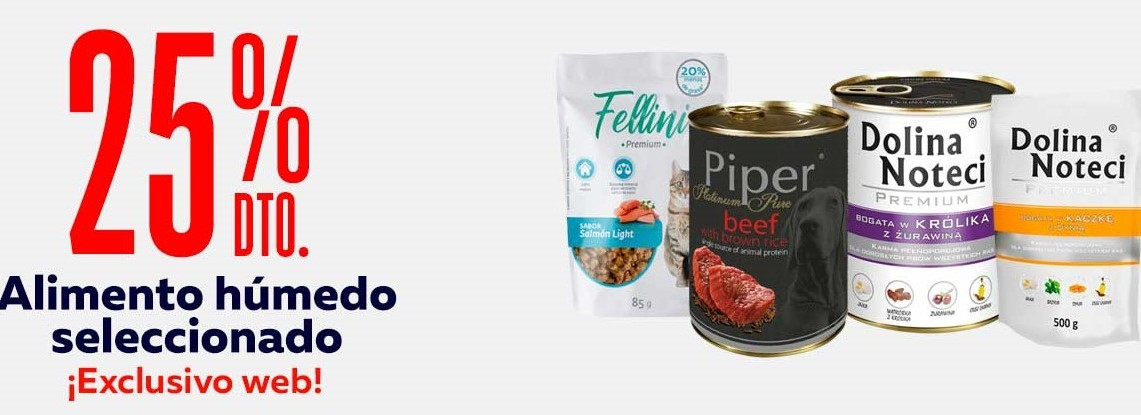
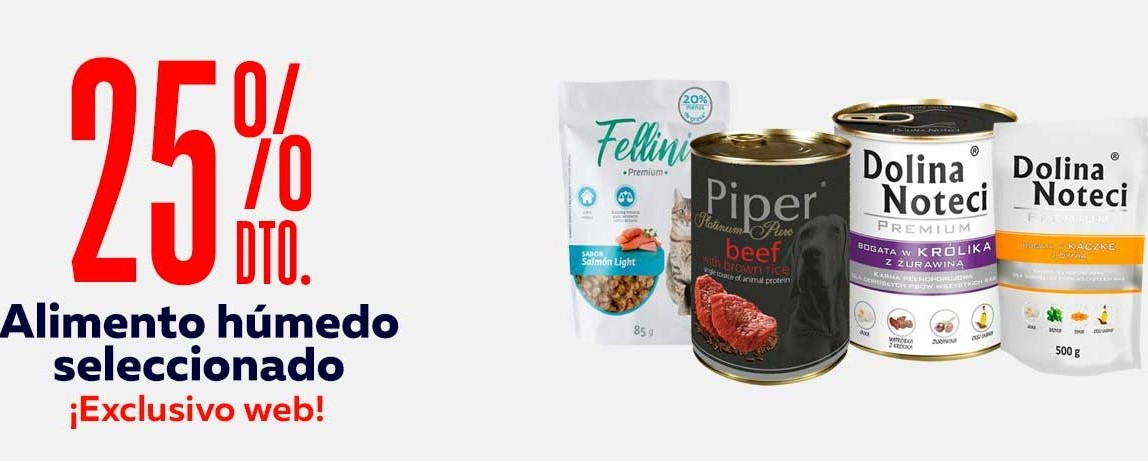
actualisaciones

Changed region(s): [[0.4908, 0.1157, 1.0, 0.8675], [0.0613, 0.0578, 0.2761, 0.6072], [0.0, 0.6361, 0.3681, 0.9542]]

diff --git a/carrito.html b/carrito.html
@@ -41,11 +41,13 @@
                         <li class="nav-item ">
                             <a class="nav-link" href="index.html">Inicio</a>
                         </li>
-                        <li class="nav-item  ">
-                            <a class="nav-link" href="carrito.html"><i class="bi bi-cart-dash">/</i>carito</a>
-                        </li>
                         <li class="nav-item ">
                             <a class="nav-link" href="ofertas.html">Ofertas</a>
+                        </li>
+                        <li class="nav-item dropdown">
+                            <a class="nav-link" href="ini_secion.html">
+                              <i class="bi bi-person"></i> Iniciar sesión /
+                            </a>
                         </li>
                       <li class="nav-item dropdown">
                         <a class="nav-link" href="registrarse.html">Registrarse</a>
@@ -56,30 +58,6 @@
             </section>
         </div>
     </nav>
-
-    <!-- Button trigger modal -->
-<button type="button" class="btn btn-primary" data-bs-toggle="modal" data-bs-target="#exampleModal">
-    Launch demo modal
-  </button>
-  
-  <!-- Modal -->
-  <div class="modal fade" id="exampleModal" tabindex="-1" aria-labelledby="exampleModalLabel" aria-hidden="true">
-    <div class="modal-dialog">
-      <div class="modal-content">
-        <div class="modal-header">
-          <h1 class="modal-title fs-5" id="exampleModalLabel">Modal title</h1>
-          <button type="button" class="btn-close" data-bs-dismiss="modal" aria-label="Close"></button>
-        </div>
-        <div class="modal-body">
-          
-        </div>
-        <div class="modal-footer">
-          <button type="button" class="btn btn-secondary" data-bs-dismiss="modal">Salir</button>
-          <button type="button" class="btn btn-primary">Registrarse</button>
-        </div>
-      </div>
-    </div>
-  </div>
 
 
   

diff --git a/index.html b/index.html
@@ -39,17 +39,19 @@
                     <!-- Lista de navegación -->
                     <ul class="navbar-nav justify-content-end flex-grow-1 pe-3">
                         <li class="nav-item  ">
-                          <a class="nav-link" href="carito.html"><i class="bi bi-cart-dash">/</i>carito</a>
+                          <a class="nav-link" href="carrito.html"><i class="bi bi-cart-dash">/</i>carito</a>
                       </li>
                       <li class="nav-item ">
                           <a class="nav-link" href="ofertas.html">Ofertas</a>
                       </li>
                       <li class="nav-item dropdown">
                         <a class="nav-link" href="ini_secion.html">
-                          <i class="bi bi-person"></i> Iniciar sesión 
+                          <i class="bi bi-person"></i> Iniciar sesión /
                         </a>
                     </li>
-                      
+                    <li class="nav-item dropdown">
+                        <a class="nav-link" href="registrarse.html">Registrarse</a>
+                    </li>
                     </ul>
                 </div>
             </section>
@@ -71,7 +73,7 @@
           </div>
           <div class="carousel-inner carousel-fade ">
               <div class="carousel-item active carousel-dark" data-bs-interval="3000">
-                  <a href="ofertas.html"><img src="carusel/dog1.jpg" alt="" width="1900px"></a>
+                  <a href="ofertas.html"><img class="d-block w-100" src="carusel/dog1.jpg" alt=""></a>
               </div>
               <div class="carousel-item" data-bs-interval="3000">
                   <a href="ofertas.html"><img class="d-block w-100" src="carusel/dog2.jpg" alt=""></a>

diff --git a/registrarse.html b/registrarse.html
@@ -42,7 +42,7 @@
                             <a class="nav-link" href="index.html">Inicio</a>
                         </li>
                         <li class="nav-item  ">
-                            <a class="nav-link" href="carito.html"><i class="bi bi-cart-dash">/</i>carito</a>
+                            <a class="nav-link" href="carrito.html"><i class="bi bi-cart-dash">/</i>carito</a>
                         </li>
                         <li class="nav-item ">
                             <a class="nav-link" href="ofertas.html">Ofertas</a>

diff --git a/ofertas.html b/ofertas.html
@@ -42,7 +42,7 @@
                             <a class="nav-link" href="index.html">Inicio</a>
                         </li>
                         <li class="nav-item  ">
-                            <a class="nav-link" href="carito.html"><i class="bi bi-cart-dash">/</i>carito</a>
+                            <a class="nav-link" href="carrito.html"><i class="bi bi-cart-dash">/</i>carito</a>
                         </li>
                         <li class="nav-item dropdown">
                           <a class="nav-link" href="ini_secion.html">
